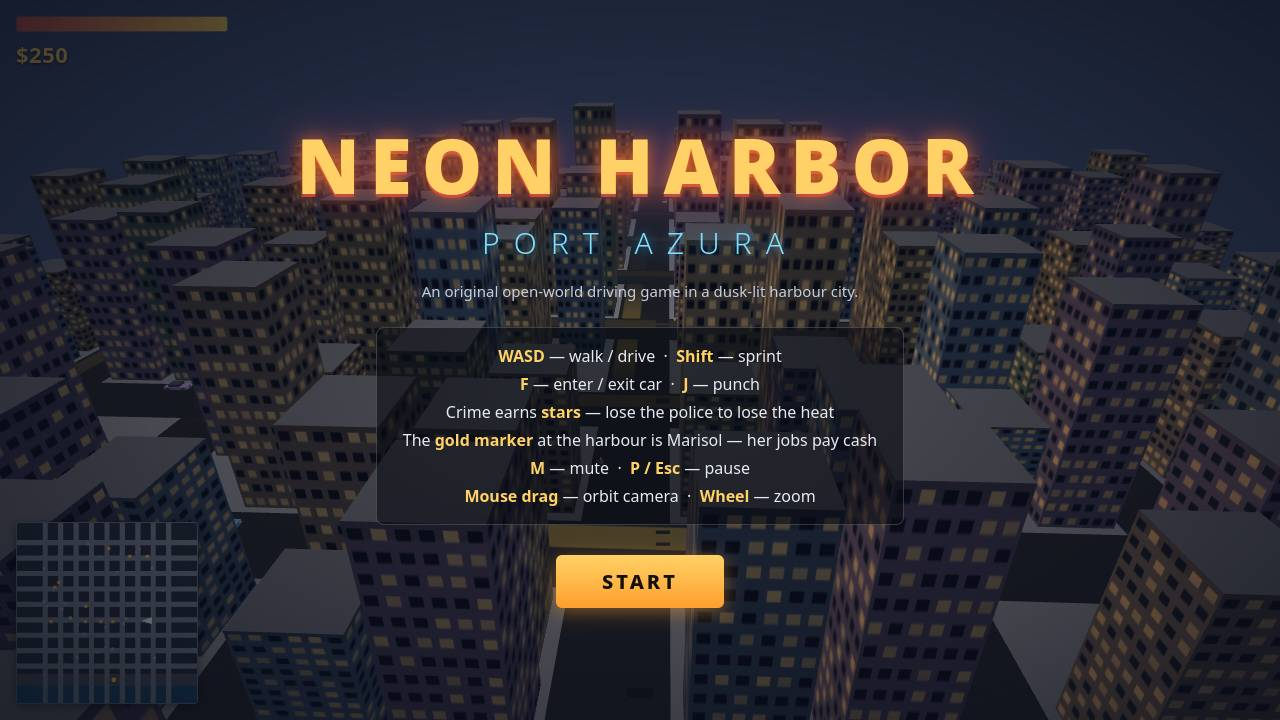
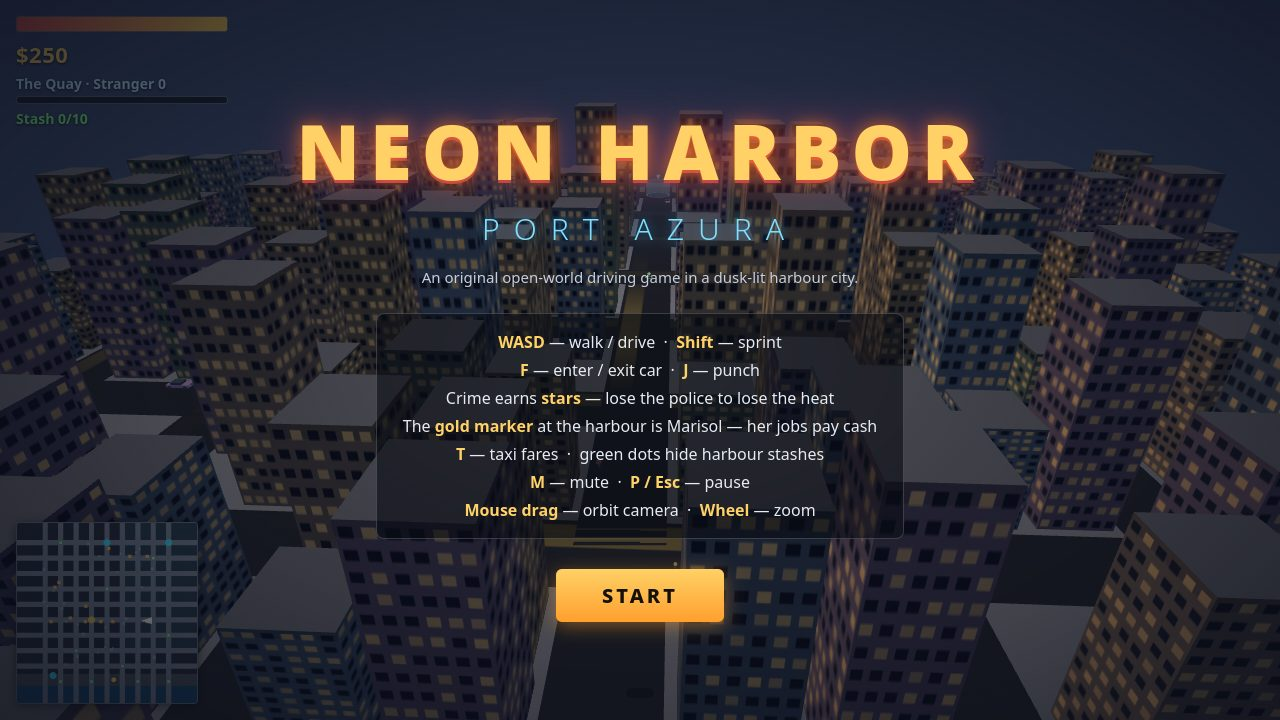
Session 8: v2 screenshots + packaging

diff --git a/main.ts b/main.ts
@@ -5,10 +5,11 @@
 // /output/dossier.json, the summary the judge reads, with the vendored make.fun library.
 // The game is Neon Harbor: Port Azura, an original open-world crime game: a dusk-lit three.js
 // harbour city (8x8 blocks, ~220 buildings) explored on foot and by car, with AI traffic,
-// pedestrians, a 0-5 star wanted system with police pursuit (BUSTED/WASTED), a five-mission
-// story chain for the harbour fixer Marisol, localStorage saves, a day cycle and synthesized
-// WebAudio sound. The 4 screenshots in screenshots/ are renders of it (the first by name is
-// the cover).
+// pedestrians, a 0-5 star wanted system with police pursuit (BUSTED/WASTED), an eight-mission
+// story chain for the harbour fixer Marisol, three checkpoint street races, district standing
+// across four districts, taxi fares and ten hidden harbour stashes, localStorage saves, a day
+// cycle and synthesized WebAudio sound. The 4 screenshots in screenshots/ are renders of it
+// (the first by name is the cover).
 //
 // Serve it locally with `node serve.ts`, then open http://localhost:8080.
 // Outside the grader's container, MAKEFUN_OUTPUT_DIR stands in for /output:

diff --git a/README.md b/README.md
@@ -14,7 +14,11 @@ Port Azura is a dusk-lit harbour city that never quite sleeps, and Marisol Venn 
 - **On foot and by car** — walk, sprint and fight on foot; press F to take any parked car, or borrow a traffic car that has stopped. Arcade driving with speed-scaled steering and a handbrake, plus a third-person camera you can orbit and zoom.
 - **Living streets** — AI traffic drives the road grid in lanes, turns at intersections, brakes for obstacles and resumes its rounds after you abandon its car; pedestrians stroll the sidewalks, cross at corners, and dodge or flee when things get loud.
 - **Wanted system & police** — crime that is witnessed earns stars (0–5): theft, collisions, brawls. Police units spawn out of sight, navigate the grid to you, and box you in; stay out of their sight to cool the heat down. Get cornered on foot and you are **BUSTED** (−15% of your cash); wreck your health and you are **WASTED** (−10%).
-- **Missions & story** — a five-job chain for harbour fixer Marisol Venn, started at the gold marker on the quay: *First Run* ($150), *Hot Property* ($220), *Errand Boy* ($180), *Heat* ($260) and *Night Haul* ($400). Finish the story and the chain replays at half pay.
+- **Missions & story** — an eight-job chain for harbour fixer Marisol Venn, started at the gold marker on the quay: *First Run* ($150), *Hot Property* ($220), *Errand Boy* ($180), *Heat* ($260), *Night Haul* ($400), *Silent Partner* ($300), *Heat Wave* ($380) and *Port Heist* ($600). Finish the story and the chain replays at half pay.
+- **Street races** — three checkpoint races with a 3-2-1-GO countdown, started with E at their cyan rings: *Harbour Sprint* ($150), *Downtown Loop* ($300) and *Marina Dash* ($500). Best times are saved, and winning pays more where the district respects you.
+- **District standing** — four districts (Old Town, Downtown, The Quay, Marina) each track how the city sees you, from Stranger to Legend: missions pay +8 standing where they end, race wins +6, fares and stashes add their own. Reach Respected for +25% race winnings in that district, Legend for +50%.
+- **Taxi fares** — pick up waiting passengers (T, in a car) and race their clock to the destination for a distance-and-time fare; a slow fare walks away.
+- **Harbour stashes** — ten hidden stashes along the quay, $25 each and a $250 bonus for finding them all.
 - **Saves** — progress autosaves to `localStorage` (money, health, story progress, where you left yourself and your car); the title screen offers **Continue** next to **New Game**.
 - **Polish** — a six-minute day cycle that melts late afternoon into dusk and back, fully synthesized WebAudio sound (engine, siren, chimes, jingles — no audio files), a live minimap, and pause.
 
